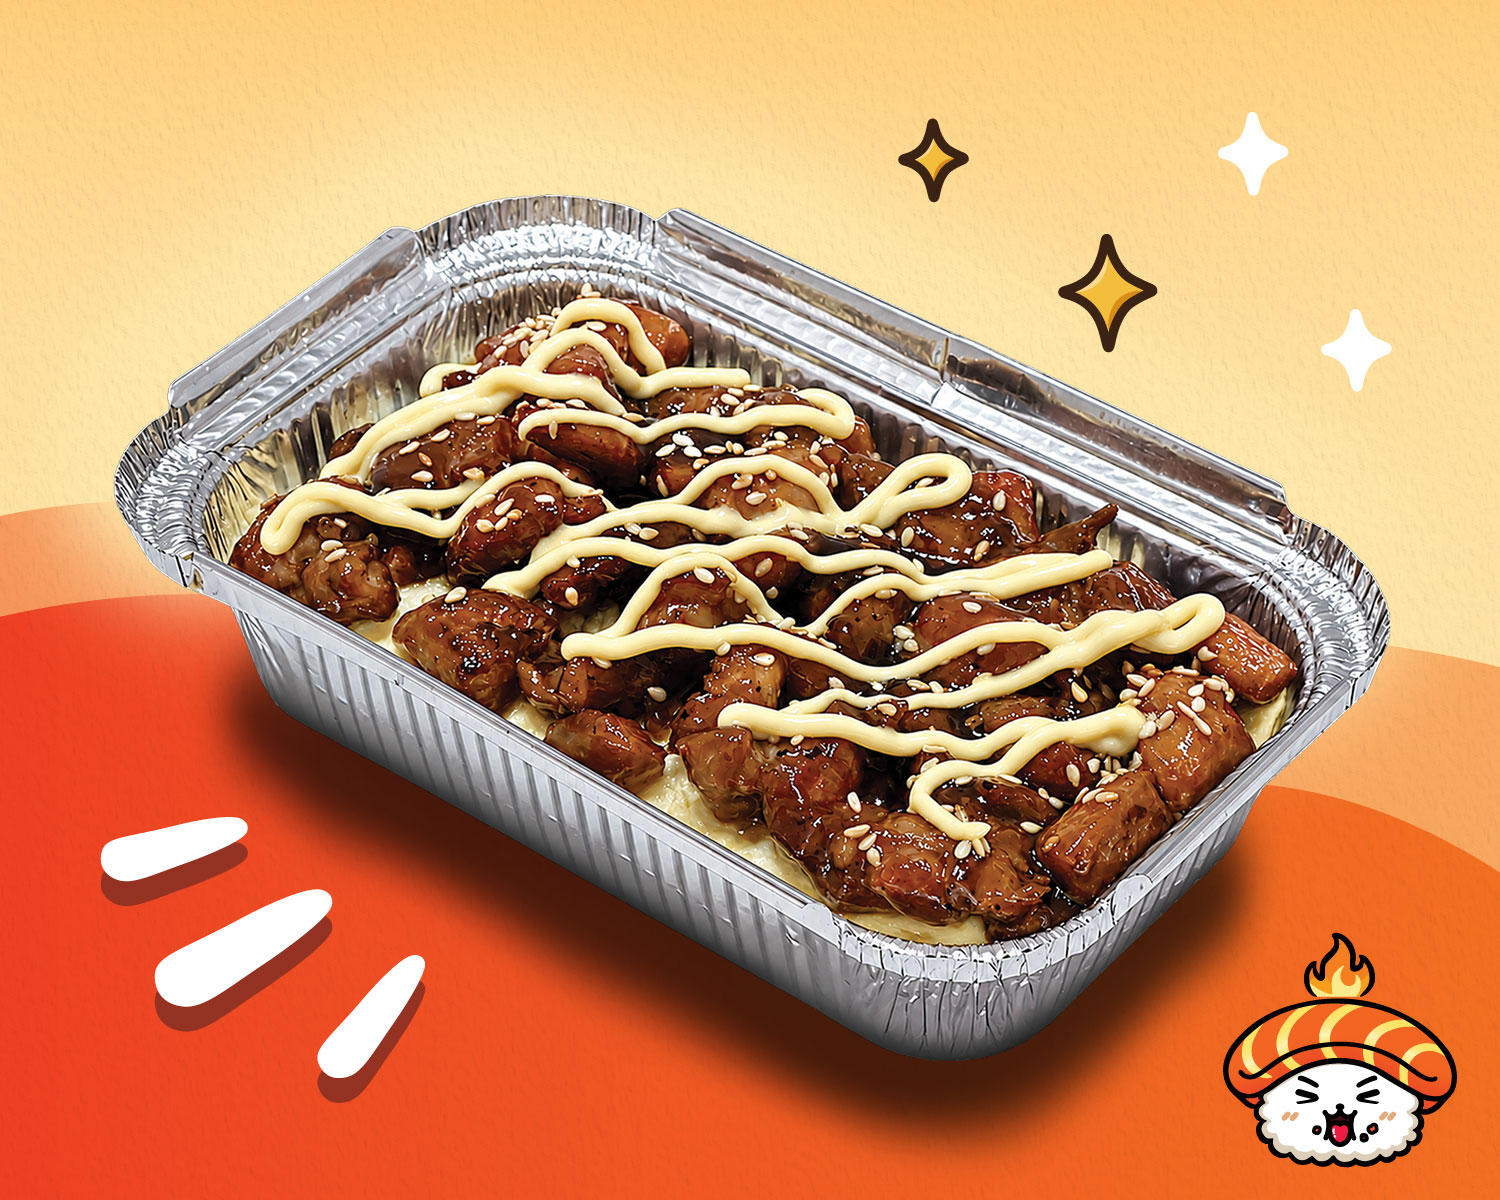
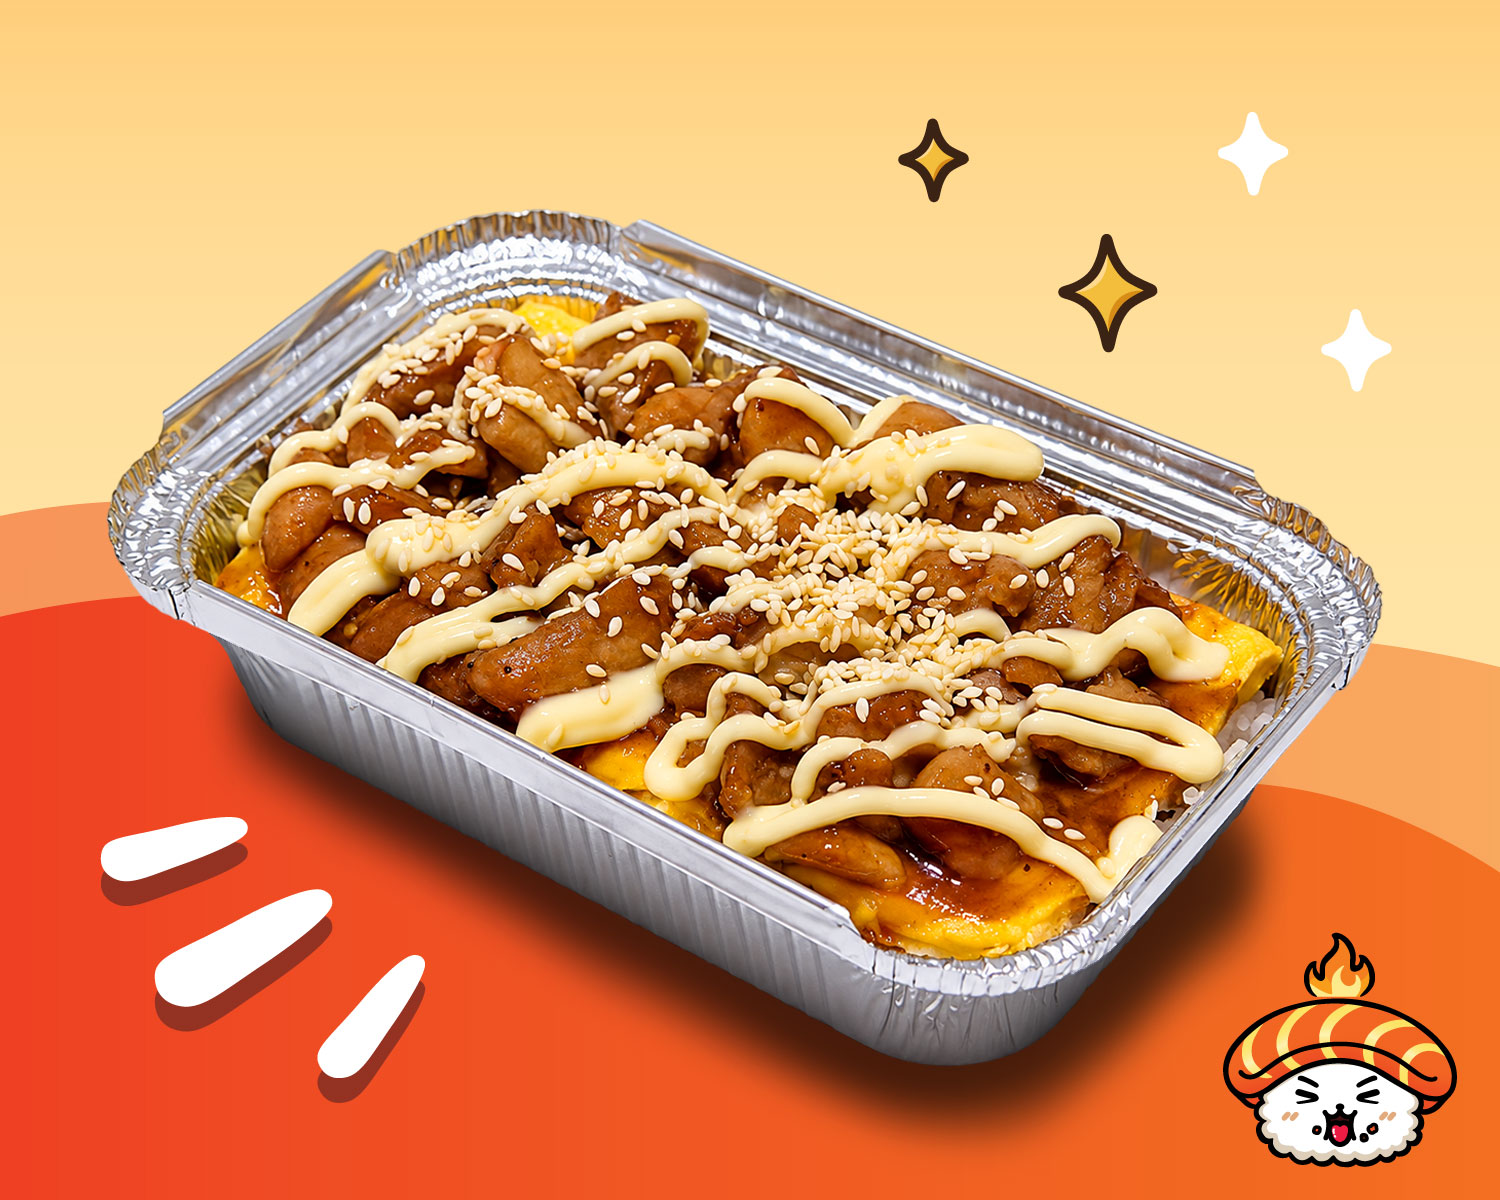
golden-tamago

diff --git a/index.html b/index.html
@@ -119,30 +119,32 @@
 
       <!-- MAIN 1 -->
       <div class="menu-container">
-        <!-- MAIN 5 -->
-        <div class="menu-item" onclick="goToProduct('fiery_tuna')">
+
+        <!-- MAIN 6 -->
+        <div class="menu-item" onclick="goToProduct('golden_tamago')">
           <div class="menu-image-wrapper">
-            <img src="images/fiery-tuna.jpg" alt="Fiery Tuna" />
+            <img src="images/golden-tamago.jpg" alt="Golden Tamago" />
             <span class="product-badge"> NEW! </span>
           </div>
 
           <div class="item-info">
-            <div class="item-name">Fiery Tuna</div>
+            <div class="item-name">Golden Tamago</div>
 
             <div
               class="item-price"
-              id="fiery_tuna-price"
+              id="golden_tamago-price"
             ></div>
             
             <div class="available-label">Available</div>
 
-            <div class="quantity" id="fiery_tuna-qty-container">
-              <div class="quantity-count" id="fiery_tuna-count">0</div>
+            <div class="quantity" id="golden_tamago-qty-container">
+              <div class="quantity-count" id="golden_tamago-count">0</div>
 
               <button>+</button>
             </div>
           </div>
         </div>
+
         <div class="menu-item" onclick="goToProduct('salmon_deluxe')">
           <div class="menu-image-wrapper">
             <img src="images/salmon-deluxe.jpg" alt="Salmon Deluxe" />
@@ -208,6 +210,30 @@
             <div class="available-label">Available</div>
             <div class="quantity" id="tuna_delight-qty-container">
               <div class="quantity-count" id="tuna_delight-count">0</div>
+              <button>+</button>
+            </div>
+          </div>
+        </div>
+        <!-- MAIN 5 -->
+        <div class="menu-item" onclick="goToProduct('fiery_tuna')">
+          <div class="menu-image-wrapper">
+            <img src="images/fiery-tuna.jpg" alt="Fiery Tuna" />
+            <span class="product-badge"> SPICY LOVER! </span>
+          </div>
+
+          <div class="item-info">
+            <div class="item-name">Fiery Tuna</div>
+
+            <div
+              class="item-price"
+              id="fiery_tuna-price"
+            ></div>
+            
+            <div class="available-label">Available</div>
+
+            <div class="quantity" id="fiery_tuna-qty-container">
+              <div class="quantity-count" id="fiery_tuna-count">0</div>
+
               <button>+</button>
             </div>
           </div>

diff --git a/js/product/normal-product.js b/js/product/normal-product.js
@@ -89,6 +89,42 @@ function renderSpicinessOptions() {
 }
 
 // ========================
+// TOPPING OPTIONS
+// Render available topping choices
+// ========================
+
+function renderToppingOptions() {
+  toppingContainer.innerHTML = "";
+
+  if (!product.toppingOptions?.length) {
+    hideSection(toppingSection);
+    return;
+  }
+
+  showSection(toppingSection);
+
+  product.toppingOptions.forEach((option, index) => {
+    toppingContainer.insertAdjacentHTML(
+      "beforeend",
+      `
+        <div class="option">
+          <label>
+            <input
+              type="radio"
+              name="topping"
+              value="${option}"
+              ${index === 0 ? "checked" : ""}
+            >
+
+            ${option}
+          </label>
+        </div>
+      `
+    );
+  });
+}
+
+// ========================
 // BASE OPTIONS
 // Render available base options
 // ========================

diff --git a/js/product/product.js b/js/product/product.js
@@ -74,6 +74,12 @@ const spicinessContainer =
     "spiciness-options"
   );
 
+const toppingSection =
+  document.getElementById("topping-section");
+
+const toppingContainer =
+  document.getElementById("topping-options");
+
 const baseSection =
   document.getElementById(
     "base-section"
@@ -338,6 +344,7 @@ function initialiseProductPage() {
   hideSection(flavourSection);
   hideSection(removeSection);
   hideSection(spicinessSection);
+  hideSection(toppingSection);
   hideSection(baseSection);
   hideSection(portionSection);
   hideSection(includeSection);
@@ -359,6 +366,7 @@ function initialiseProductPage() {
   } else {
     renderRemoveOptions();
     renderSpicinessOptions();
+    renderToppingOptions();
     renderBaseOptions();
     renderPortionOptions();
     renderUpgradeOptions();

diff --git a/js/api/cart-api.js b/js/api/cart-api.js
@@ -27,6 +27,12 @@ const SPICINESS_CODE_MAP = {
   "Level 3": "level_3"
 };
 
+const TOPPING_CODE_MAP = {
+  "Bonito Flakes": "bonito_flakes",
+  "Chicken Floss": "chicken_floss",
+  "Both": "both"
+};
+
 const BASE_CODE_MAP = {
   "Japanese Rice": "rice",
   "Rice": "rice",
@@ -74,6 +80,10 @@ function getSpicinessCode(value) {
     SPICINESS_CODE_MAP[value] ||
     value
   );
+}
+
+function getToppingCode(value) {
+  return TOPPING_CODE_MAP[value] || value;
 }
 
 function getBaseCode(value) {
@@ -165,6 +175,14 @@ function buildNormalSelections(item) {
         getSpicinessCode(
           item.spiciness
         )
+    });
+  }
+
+  if (item.topping) {
+    selections.push({
+      selection_type: "topping",
+      selection_value:
+        getToppingCode(item.topping)
     });
   }
 

diff --git a/js/product/products.js b/js/product/products.js
@@ -325,6 +325,32 @@ const PRODUCTS  = {
 
   },
 
+  // ========================
+  // GOLDEN EGG
+  // Teriyaki Tamagoyaki with Bonito Flakes and/or Chicken Floss sushi bake
+  // ========================
+
+  golden_tamago: {
+    id: "golden_tamago",
+    name: "Golden Tamago",
+    price: 9.90,
+    image: "../images/golden-tamago.jpg",
+
+    description: "Teriyaki · Mayo · Tamagoyaki · Chicken Floss / Bonito Flakes / Both",
+
+    toppingOptions: [
+      "Bonito Flakes",
+      "Chicken Floss",
+      "Both"
+    ],
+
+    baseOptions: DEFAULT_BASE_OPTIONS,
+
+    portionOptions: DEFAULT_PORTION_OPTIONS,
+
+    upgradeOptions: DEFAULT_UPGRADE_OPTIONS,
+
+  },
 
   // ========================
   // UPGRADE SET

diff --git a/js/checkout/receipt.js b/js/checkout/receipt.js
@@ -362,8 +362,9 @@ function renderItems(
         base: 1,
         portion: 2,
         spiciness: 3,
-        removed: 4,
-        upgrade: 5
+        topping: 4,
+        removed: 5,
+        upgrade: 6
       };
 
 
@@ -644,10 +645,11 @@ function renderSelections(
 
                   const order = {
                     spiciness: 1,
-                    base: 2,
-                    portion: 3,
-                    removed: 4,
-                    upgrade: 5
+                    topping: 2,
+                    base: 3,
+                    portion: 4,
+                    removed: 5,
+                    upgrade: 6
                   };
 
 

diff --git a/pages/product.html b/pages/product.html
@@ -138,6 +138,26 @@
         ></div>
       </section>
 
+      <!-- Topping Options -->
+      <section
+        class="section"
+        id="topping-section"
+        hidden
+      >
+        <div class="section-heading">
+          <h2>Choose Your Topping(s)</h2>
+
+          <p>
+            Pick your preferred topping(s).
+          </p>
+        </div>
+
+        <div
+          id="topping-options"
+          class="options-list"
+        ></div>
+      </section>
+
       <!-- Base Options -->
       <section
         class="section"

diff --git a/js/cart/render.js b/js/cart/render.js
@@ -66,6 +66,16 @@ function renderNormalProductDetails(item) {
         `
         : ""
     }
+
+    ${
+      item.topping
+        ? `
+          <div class="cart-note">
+            Topping(s): ${item.topping}
+          </div>
+        `
+        : ""
+    }
     
     ${
       item.base
@@ -193,7 +203,8 @@ function renderFreeSeaweedDetails(item) {
     "shroom_bliss",
     "chicken_comfort",
     "tuna_delight",
-    "fiery_tuna"
+    "fiery_tuna",
+    "golden_tamago"
   ];
 
   if (productsWithSeaweed.includes(item.id)) {

diff --git a/js/product/cart.js b/js/product/cart.js
@@ -134,6 +134,11 @@ function addToCart() {
       getSelectedRadioValue(
         "spiciness"
       );
+    
+    cartItem.topping =
+      getSelectedRadioValue(
+        "topping"
+      );
   }
 
   if (editIndex !== null) {

diff --git a/js/cart/cart.js b/js/cart/cart.js
@@ -99,7 +99,8 @@ function getTotalMainTrays() {
     "shroom_bliss",
     "chicken_comfort",
     "tuna_delight",
-    "fiery_tuna"
+    "fiery_tuna",
+    "golden_tamago"
   ];
 
   return cart.reduce((total, item) => {

diff --git a/js/product/edit.js b/js/product/edit.js
@@ -38,6 +38,11 @@ function restoreNormalProductSelections() {
     "spiciness",
     editingItem.spiciness
   );
+
+  restoreRadioSelection(
+    "topping",
+    editingItem.topping
+  );
 }
 
 
